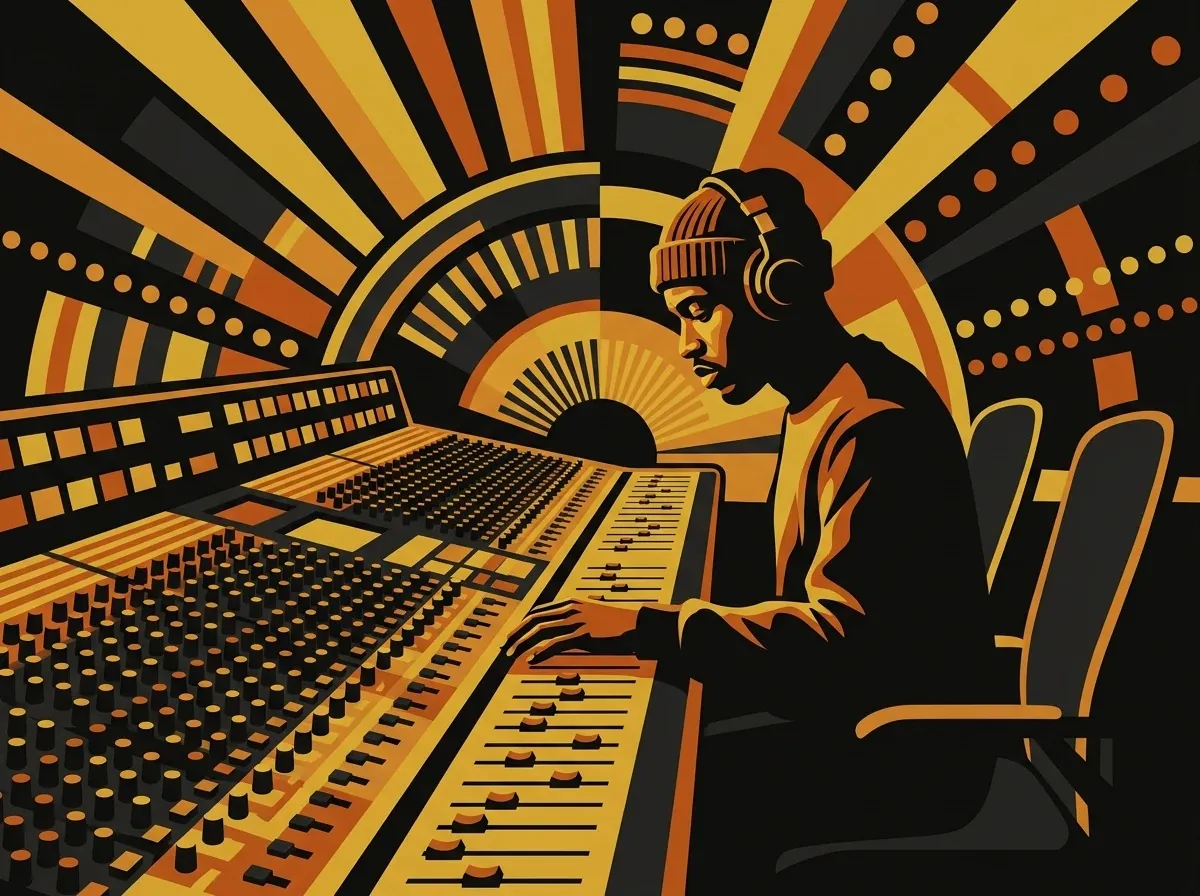
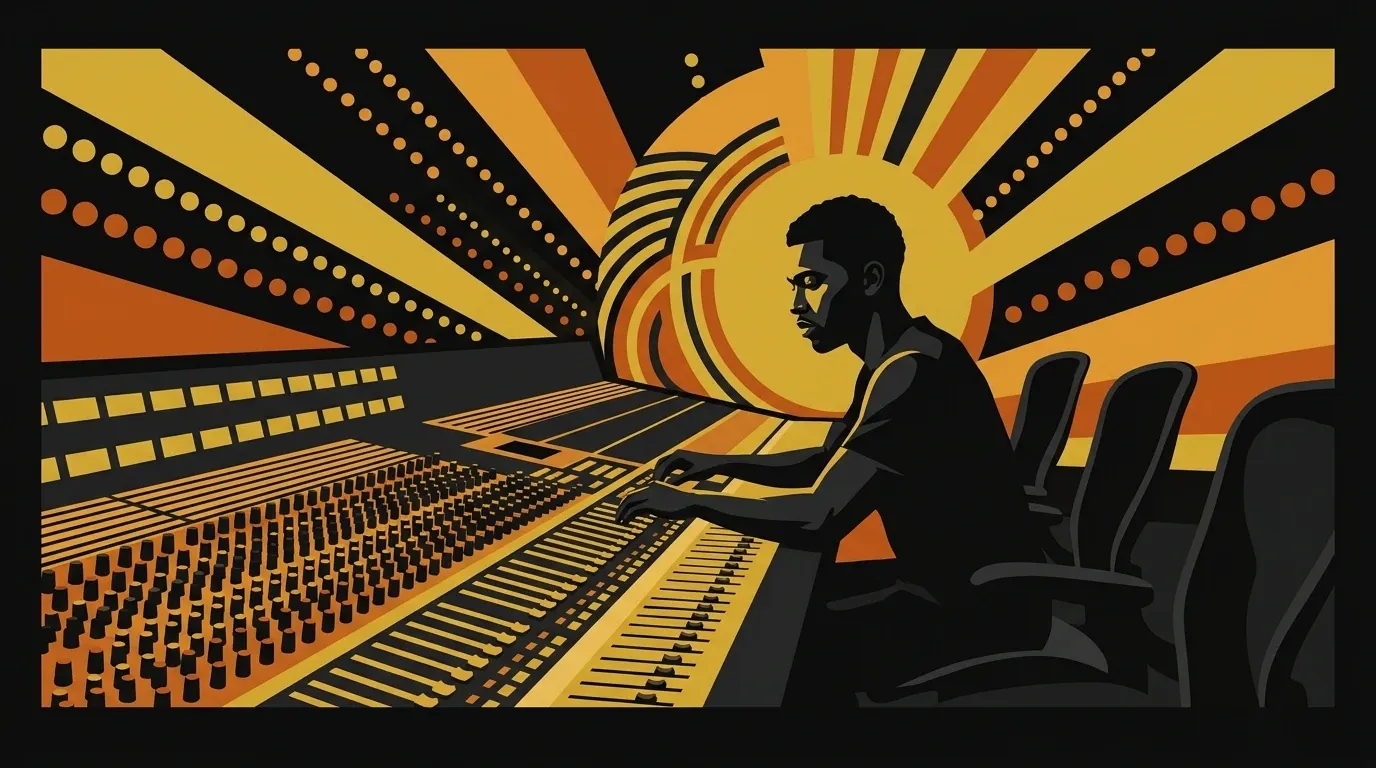
Redraw the heroes at 16:9 so they fill the column instead of floating in it
The stacked hero left the artwork about 60% of the column width, which is what
"really small" looked like. The cause was the RATIO, not the pixel budget. A 4:3
image in a max-w-2xl column can only be one of two things: wide enough to fill it
and roughly 500px tall, which puts the CTA below the fold, or short enough to fit
and too narrow to carry the page. Sizing by height solved the fold and created
the smallness.

So the six heroes are redrawn at 16:9. Same style, same compositions, only the
framing widens, and each one was opened and reviewed again rather than trusted
because the prompt was similar. Full column width now costs about 378px of height
instead of about 500px, so the artwork roughly doubles in area and the button
still clears the fold.

max-h stays as the safety net rather than the primary mechanism: the aspect ratio
sets the natural height and the cap takes over only when a short laptop cannot
afford it, trimming top and bottom rather than letterboxing. On a 1366x768
desktop the 42vh cap binds at about 277px, leaving roughly 620px inside 660px.

Sizes hint corrected too: it was still advertising a 480px slot from when the
image was narrow, so the browser was fetching a variant smaller than the space it
had to fill.

diff --git a/src/components/lead-magnets/ToolHero.tsx b/src/components/lead-magnets/ToolHero.tsx
@@ -10,14 +10,16 @@ import Image from 'next/image';
 // race and left the CTA hanging off the left edge of a half-width column.
 //
 // THE CONSTRAINT THAT SHAPES EVERYTHING HERE: the CTA must stay above the fold. Stacking the image
-// on top spends vertical space that the side-by-side layout got for free, so the image is sized by
-// HEIGHT in viewport units and lets its width follow the 4:3 ratio, rather than the usual
-// width-first sizing. That is what guarantees it can never grow past its share of the screen on a
-// short laptop. Worst realistic case, a 1366x768 desktop: 34vh image (261px) + ~20px gap + ~320px
-// of copy and button = ~600px inside ~656px of usable height. A 390x844 phone has more room still.
+// on top spends vertical space that the side-by-side layout got for free, so the artwork is drawn
+// at 16:9 and rendered at full column width with a `max-h` viewport cap. 16:9 is the whole trick:
+// at this column width it costs ~378px of height where 4:3 would cost ~500px, which is the
+// difference between the button sitting above the fold and below it.
 //
-// So: before changing any height here, or adding an element, re-measure on a 1366x768 desktop AND a
-// 375x667 phone. Growing the image or the type by a little is exactly how the button falls off.
+// Worst realistic case, a 1366x768 desktop (~660px of viewport): the 42vh cap binds at ~277px of
+// image, plus ~24px gap and ~320px of copy and button, so ~620px inside ~660px. A 390x844 phone has
+// far more room. So: before changing any height here, or adding an element, re-measure on a
+// 1366x768 desktop AND a 375x667 phone. Growing the image or the type a little is exactly how the
+// button falls off.
 export function ToolHero({
   eyebrow,
   headline,
@@ -40,13 +42,21 @@ export function ToolHero({
   return (
     <div className="mx-auto flex max-w-2xl flex-col items-center text-center gap-5 md:gap-6 py-2 md:py-4">
       {/*
-        Height-first sizing: `h-[Nvh]` with `aspect-[4/3]` means the height is the fixed side and
-        the width derives from it, so the artwork always fits its share of the viewport instead of
-        being as tall as the column is wide. `object-cover` on a container already at the source's
-        own 4:3 ratio crops nothing.
+        FULL COLUMN WIDTH at 16:9, with a viewport cap as the safety net.
+
+        The previous version sized by height (`h-[34vh] aspect-[4/3]`) so the artwork could never
+        outgrow the fold, and it worked, but it made the image only about 60% of the column width
+        and it read as small. The real constraint was the RATIO, not the pixel budget: a 4:3 image
+        in this column is either wide enough to fill it and ~500px tall, or short enough to fit and
+        too narrow. The heroes are now drawn at 16:9, so full width costs ~378px of height instead
+        of ~500px and nothing has to be cropped.
+
+        `max-h` is what keeps the CTA above the fold on a short laptop: the aspect ratio sets the
+        natural height, and the cap takes over when the viewport cannot afford it (object-cover
+        trims top and bottom rather than letterboxing).
       */}
-      <div className="relative h-[28vh] md:h-[34vh] aspect-[4/3] shrink-0 rounded-2xl overflow-hidden border border-crwn-elevated">
-        <Image src={image} alt={imageAlt} fill priority sizes="(max-width: 768px) 70vw, 480px" className="object-cover" />
+      <div className="relative w-full aspect-[16/9] max-h-[38vh] md:max-h-[42vh] shrink-0 rounded-2xl overflow-hidden border border-crwn-elevated">
+        <Image src={image} alt={imageAlt} fill priority sizes="(max-width: 768px) 100vw, 672px" className="object-cover" />
         <div className="absolute inset-0 bg-gradient-to-t from-crwn-bg/70 via-transparent to-transparent" />
       </div>
 

diff --git a/src/lib/leadMagnets/toolPositioning.test.ts b/src/lib/leadMagnets/toolPositioning.test.ts
@@ -207,13 +207,13 @@ describe('every headline opens on a brand photograph', () => {
     expect(toolHeroCode).not.toMatch(/md:order-/);
   });
 
-  it('keeps the CTA above the fold by sizing the hero image from HEIGHT, not width', () => {
-    // Stacking spends vertical space the old two-column layout got for free. `h-[Nvh]` with
-    // `aspect-[4/3]` makes height the fixed side so the artwork can never take more than its share
-    // of a short laptop screen and push the button off. Width-first sizing (`w-full aspect-*`)
-    // would make the image as tall as the column is wide, which is exactly the regression.
-    expect(toolHeroCode).toMatch(/h-\[\d+vh\] md:h-\[\d+vh\] aspect-\[4\/3\]/);
-    expect(toolHeroCode).not.toMatch(/w-full aspect-\[4\/3\]/);
+  it('keeps the CTA above the fold with a viewport cap on the hero image', () => {
+    // Stacking spends vertical space the old two-column layout got for free. The artwork is drawn
+    // at 16:9 so full column width costs ~378px of height instead of the ~500px a 4:3 image would,
+    // and a max-height in viewport units is the safety net when a short laptop cannot afford that.
+    // Without the cap the image grows with the column and the button falls off the screen.
+    expect(toolHeroCode).toMatch(/w-full aspect-\[16\/9\] max-h-\[\d+vh\] md:max-h-\[\d+vh\]/);
+    expect(toolHeroCode).not.toMatch(/aspect-\[4\/3\]/);
     // And the button is no longer pushed to the bottom of a full-screen box.
     expect(toolHeroCode).not.toMatch(/mt-auto/);
     expect(toolHeroCode).not.toMatch(/min-h-\[calc\(100svh/);
